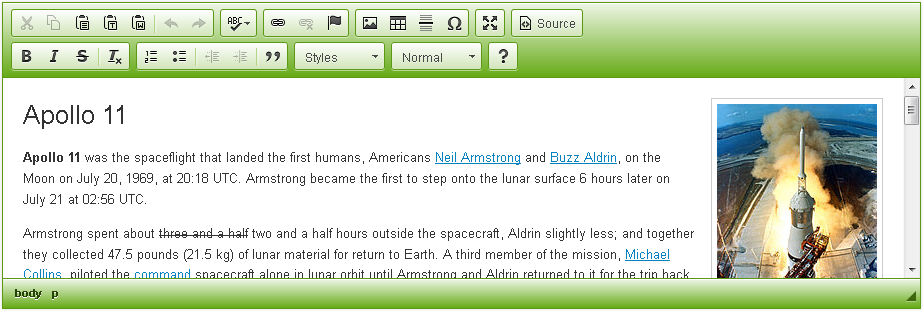
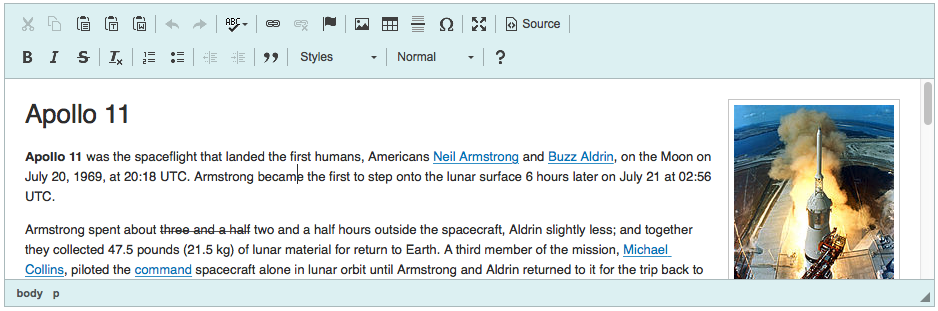
UI Color article updated to Moono-Lisa.

diff --git a/guides/dev/features/uicolor/README.md b/guides/dev/features/uicolor/README.md
@@ -8,7 +8,7 @@ For licensing, see LICENSE.md.
 The editor UI color can be easily adjusted by the developer to match the look and feel of a website or an application where CKEditor is embedded in.
 
 <p class="requirements">
-	Please note that this feature can only be used for editor skins that are compatible with the so-called <a href="#!/guide/skin_sdk_chameleon">"chameleon" feature</a>. The skins created by CKSource, i.e. <a href="http://ckeditor.com/addon/moono">Moono</a> and <a href="http://ckeditor.com/addon/kama">Kama</a>, already support it. If you are using a custom skin, you will need to define the <a href="#!/api/CKEDITOR.skin-method-chameleon">CKEDITOR.skin.chameleon</a> function in your <code>skin.js</code> file.
+	Please note that this feature can only be used for editor skins that are compatible with the so-called <a href="#!/guide/skin_sdk_chameleon">"chameleon" feature</a>. The skins created by CKSource, i.e. <a href="http://ckeditor.com/addon/moono-lisa">Moono-Lisa</a>, <a href="http://ckeditor.com/addon/moono">Moono</a> and <a href="http://ckeditor.com/addon/kama">Kama</a>, already support it. If you are using a custom skin, you will need to define the <a href="#!/api/CKEDITOR.skin-method-chameleon">CKEDITOR.skin.chameleon</a> function in your <code>skin.js</code> file.
 </p>
 
 If you want to change the default UI color, you need to define the CKEDITOR.config.uiColor configuration setting which accepts an RGB color code.
